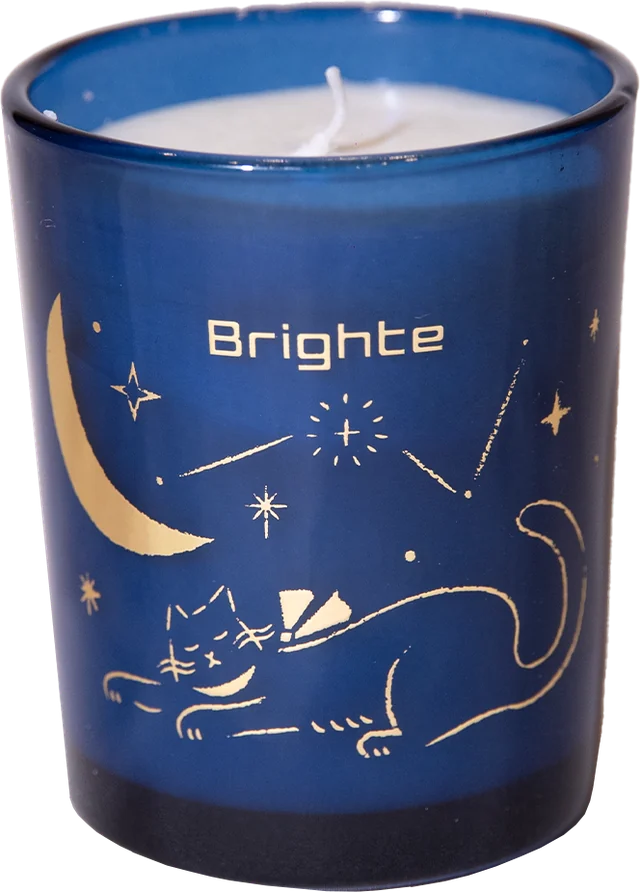
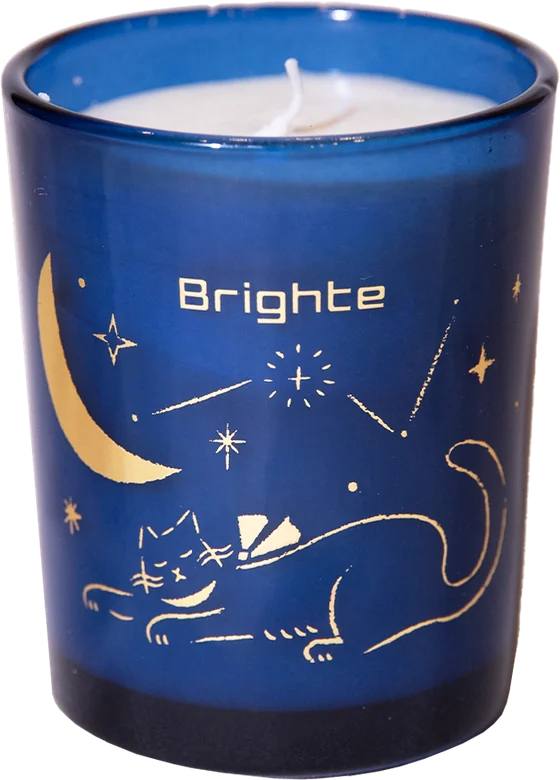
fix: 先着2,500名様を大きく、キャンドル特別セットを1行、キャンドル画像を色修正版にして小さく

diff --git a/index.html b/index.html
@@ -395,14 +395,15 @@ footer .law{font-size:14px}
 }
 /* 先着特典: キャンドル特別セット */
 .gift{position:relative;padding:44px var(--gut-r) 48px var(--gut-l);text-align:center;background:radial-gradient(70% 38% at 50% 52%,rgba(255,196,96,.16),transparent 72%),linear-gradient(#070d2c,#0a1036 50%,#070d2c);border-top:1px solid rgba(232,178,46,.35)}
-.gift-badge{display:flex;align-items:baseline;justify-content:center;gap:.25em;width:fit-content;margin:0 auto;padding:8px clamp(30px,8vw,44px) 9px;color:#fff;font-size:clamp(17px,4.8vw,22px);font-weight:700;letter-spacing:.08em;line-height:1.2;background:linear-gradient(#e2253e,#b30e27 55%,#8e0a1f);clip-path:polygon(0 0,100% 0,calc(100% - 14px) 50%,100% 100%,0 100%,14px 50%)}
-.gift-badge b{font:600 1.7em/1 var(--num);letter-spacing:.01em;color:#ffe39a}
-.gift-head{display:grid;margin:18px 0 0;font-size:min(9.6vw,46px);font-weight:900;line-height:1.25;letter-spacing:.1em;color:#fff}
+.gift-badge{display:flex;align-items:baseline;justify-content:center;gap:.2em;width:fit-content;margin:0 auto;padding:10px clamp(34px,9vw,54px) 12px;color:#fff;font-size:clamp(24px,6.6vw,34px);font-weight:700;letter-spacing:.08em;line-height:1.2;background:linear-gradient(#e2253e,#b30e27 55%,#8e0a1f);clip-path:polygon(0 0,100% 0,calc(100% - 18px) 50%,100% 100%,0 100%,18px 50%)}
+.gift-badge b{font:600 1.85em/1 var(--num);letter-spacing:.01em;color:#ffe39a}
+.gift-head{display:grid;margin:20px 0 0;font-size:min(8.2vw,44px);font-weight:900;line-height:1.25;letter-spacing:.06em;color:#fff}
+.gift-head .nw{white-space:nowrap}
 .gift-head small{margin-bottom:6px;font-size:clamp(14px,3.8vw,17px);font-weight:500;letter-spacing:.16em;color:#ffe39a}
 .gift-scent{display:flex;align-items:center;justify-content:center;gap:14px;margin:14px 0 0;font-size:clamp(16px,4.4vw,19px);font-weight:500;letter-spacing:.2em;color:var(--gold);background:var(--g-gold);-webkit-background-clip:text;background-clip:text;-webkit-text-fill-color:transparent}
 .gift-scent::before,.gift-scent::after{content:"";width:34px;height:1px;background:linear-gradient(90deg,transparent,#e8b22e)}
 .gift-scent::after{transform:scaleX(-1)}
-.gift-ph{position:relative;width:min(56%,280px);margin:24px auto 0}
+.gift-ph{position:relative;width:min(40%,210px);margin:24px auto 0}
 .gift-ph::before{content:"";position:absolute;inset:-14% -30% -6%;background:radial-gradient(closest-side,rgba(255,205,110,.42),rgba(255,170,60,.12) 60%,transparent);animation:glow 3.6s ease-in-out infinite alternate}
 .gift-ph img{position:relative;width:100%;filter:drop-shadow(0 18px 22px rgba(0,0,0,.55))}
 @keyframes glow{from{opacity:.65;transform:scale(.96)}to{opacity:1;transform:scale(1.04)}}
@@ -473,9 +474,9 @@ footer .law{font-size:14px}
 <!-- ▼ 先着特典: オリジナルキャンドル特別セット(ブラシ・リフト・ドライヤー) -->
 <section class="gift" aria-labelledby="giftHead">
   <p class="gift-badge"><span>先着</span><b>2,500</b><span>名様</span></p>
-  <h2 class="gift-head" id="giftHead"><small>Brighte オリジナル</small>キャンドル<br>特別セット</h2>
+  <h2 class="gift-head" id="giftHead"><small>Brighte オリジナル</small><span class="nw">キャンドル特別セット</span></h2>
   <p class="gift-scent">シャルドネの香り</p>
-  <div class="gift-ph"><img src="images/candle.webp" alt="Brighteオリジナルキャンドル(月と猫のネイビーのグラス)" width="640" height="892" loading="lazy"></div>
+  <div class="gift-ph"><img src="images/candle.webp?v=2" alt="Brighteオリジナルキャンドル(月と猫のネイビーのグラス)" width="560" height="780" loading="lazy"></div>
   <p class="gift-for">対象商品</p>
   <ul class="gift-items">
     <li><a href="https://item.rakuten.co.jp/brighte-onlineshop/brt-fs145/"><img src="images/brush.webp" alt="ELEKI BRUSH＋" width="1000" height="1000" loading="lazy"></a></li>
